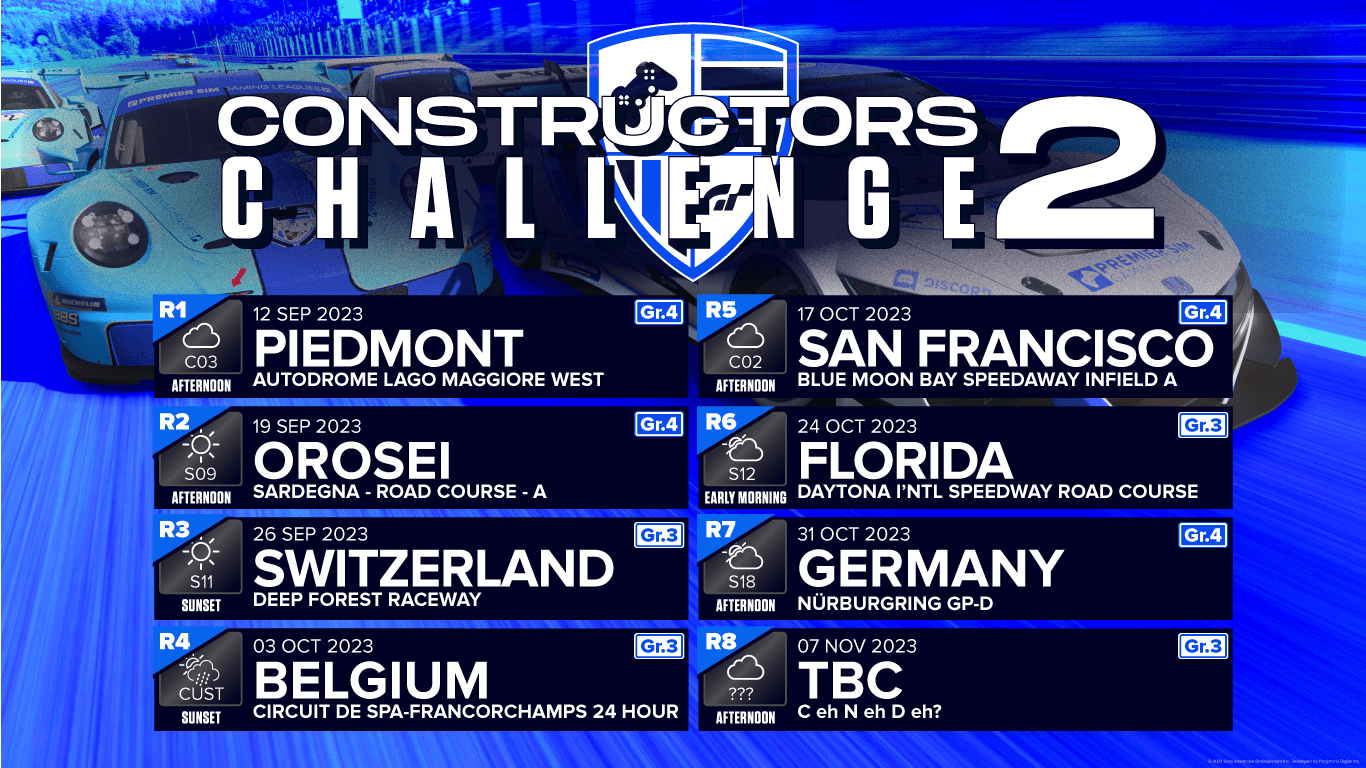
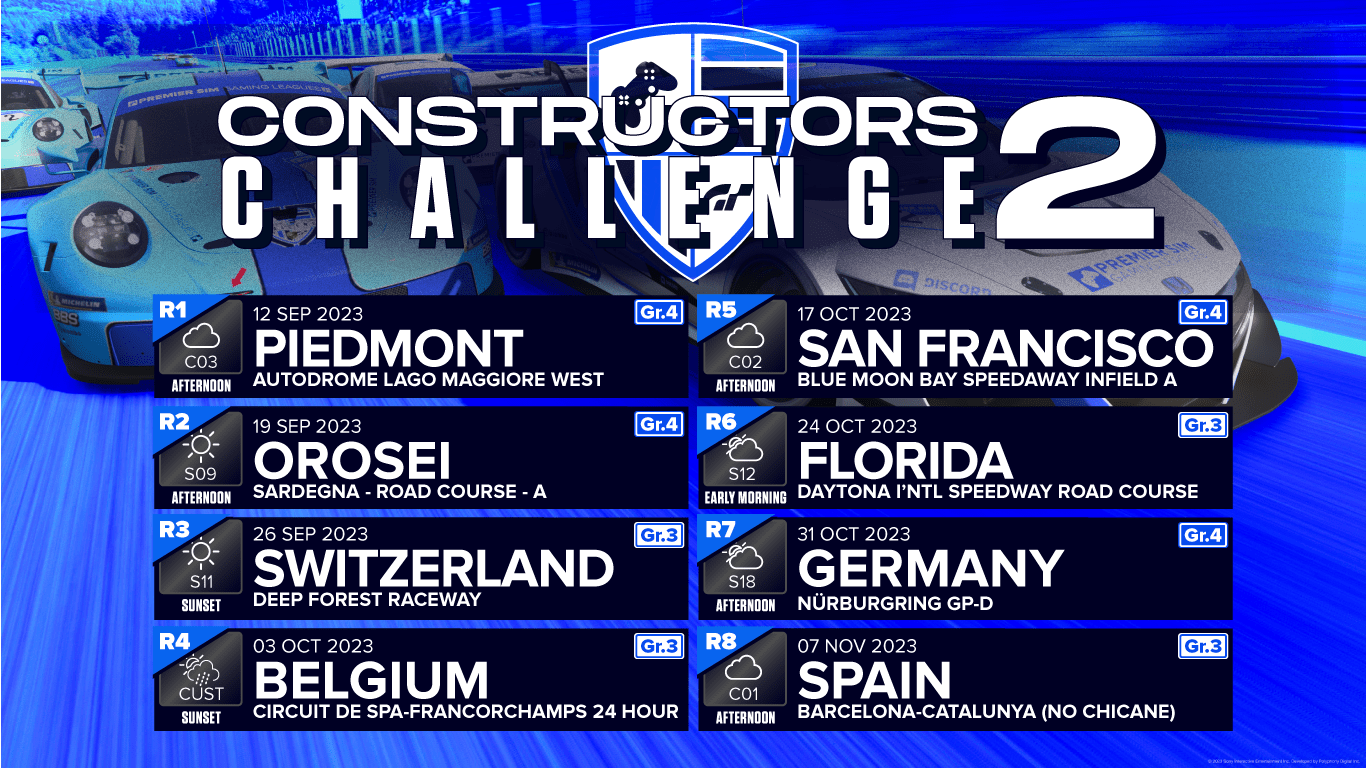
.

Changed region(s): [[0.5842, 0.8438, 0.8609, 0.9375], [0.5227, 0.8438, 0.5534, 0.9062]]

diff --git a/_custom_pages/calendar_f1_psgleseries-s2.md b/_custom_pages/calendar_f1_psgleseries-s2.md
@@ -1,20 +1,11 @@
 ---
-layout: page
+layout: calendar
 title: F1 2023 PSGL E-Series S2 Calendar
 permalink: /f1/psgl-e-series-s2/calendar
 menu_title: E-Series S2 Calendar
 menu_icon: /assets/site-img/PSGL-Logo.png
 menu_hide: false
 menu_order: 3
+calendars:
+    - { name: 'PSGL E-Series S2 Calendar', images: ['/assets/site-img/PSGL-E-Series-Calendar-S2.png'], width: 2160, height: 1132 }
 ---
-
-<div class="center">
-
-## PSGL E-Series Calendar
-[![PSGL E-Series Calendar]](/assets/site-img/PSGL-E-Series-Calendar-S2.png)
-
-
-[PSGL E-Series Calendar]: /assets/site-img/PSGL-E-Series-Calendar-S2.png
-{:width="2160" height="1132"}
-
-</div>
